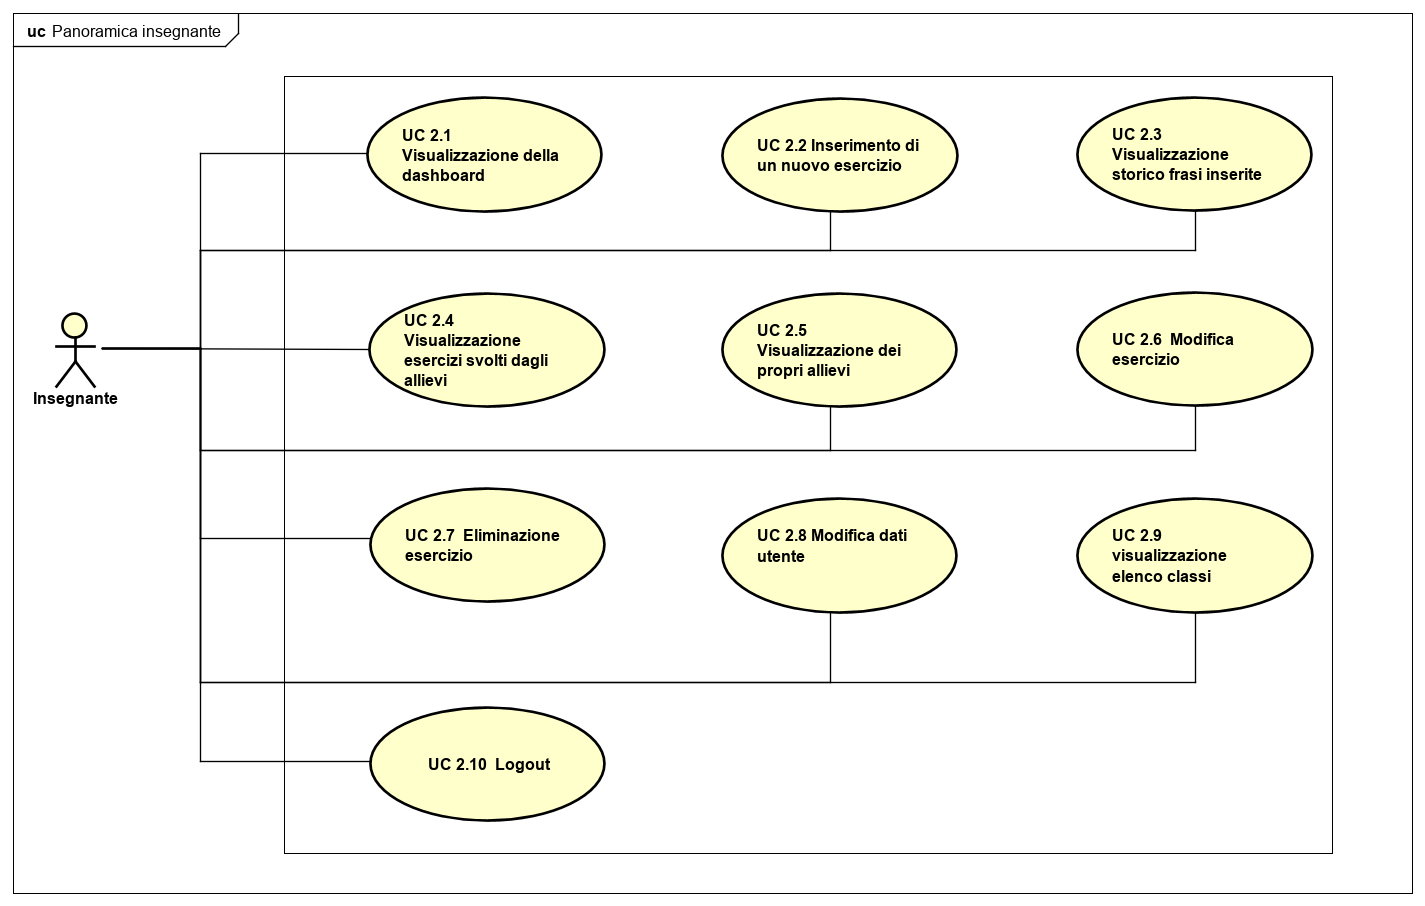
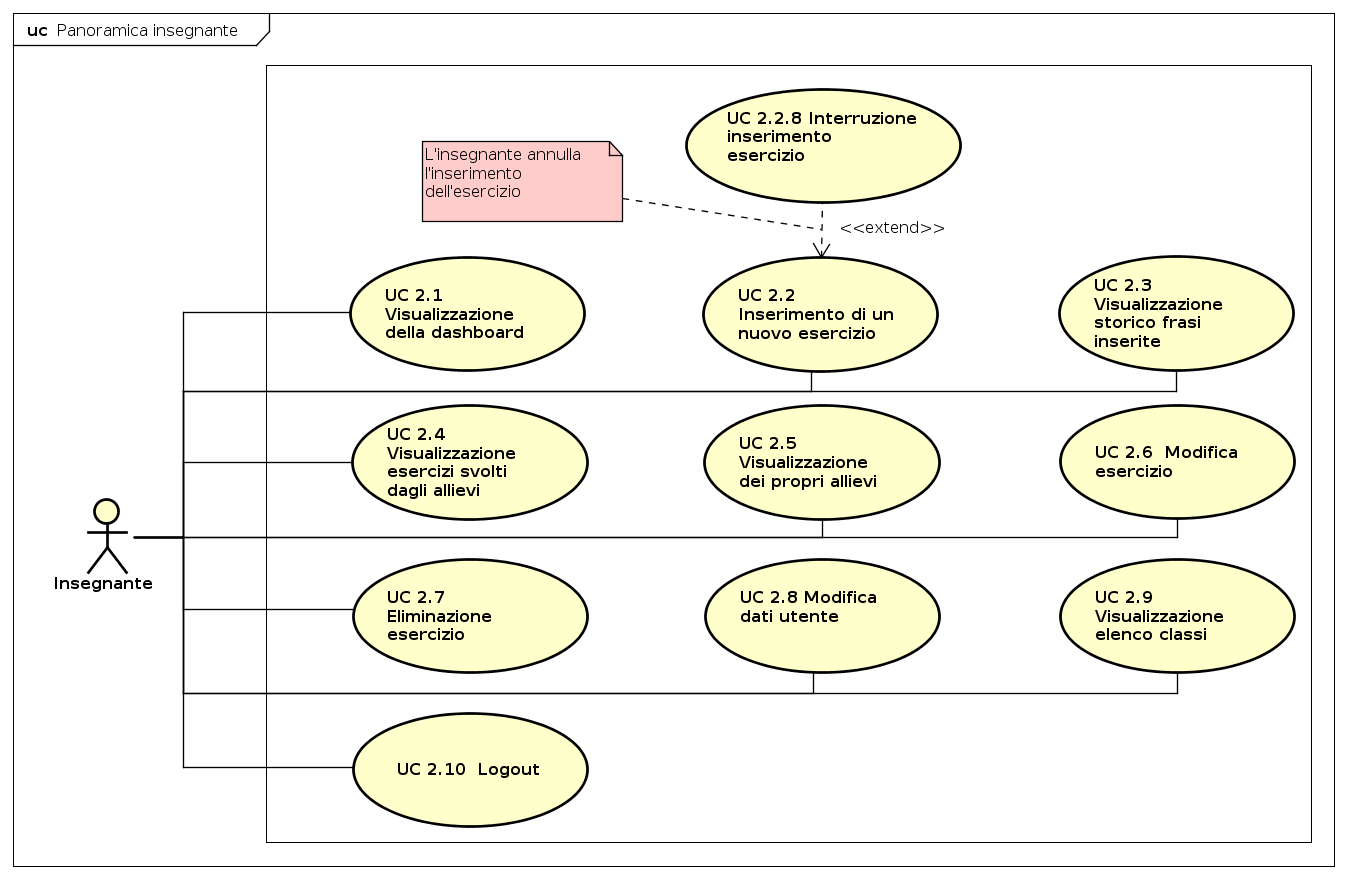
Aggiornata panoramica insegnanti

diff --git a/RQ/Analisi_dei_requisiti/sez/introduzione.tex b/RQ/Analisi_dei_requisiti/sez/introduzione.tex
@@ -5,8 +5,8 @@ Il prodotto da realizzare consta in un’applicazione web che fornisca uno strum
 le/gli insegnanti che si occuperanno della creazione degli esercizi,
 gli allievi che potranno svolgere gli esercizi e ottenere delle valutazioni e gli sviluppatori che filtreranno i dati secondo alcuni criteri, e infine li scaricheranno.\\Il prodotto si interfaccerà con un’applicazione di {PoS-tagging}\ped{G}, come {FreeLing}\ped{G}, a cui verrà delegata l’esecuzione dell’analisi grammaticale delle frasi.
 \subsection{Glossario}
-Al fine di rendere il documento il più comprensibile possibile e permetterne una rapida fruizione, viene allegato un glossario i cui termini sono contraddistinti dal pedice G. Tali termini includono abbreviazioni, acronimi, termini di natura tecnica, oppure sono fonte di ambiguità e pertanto necessitano di una definizione che renda il loro significato inequivocabile. 
-Ogni termine, solo alla prima occorrenza per documento, verrà contrassegnato con la dicitura sopra indicata e rimanderà alla medesima definizione nel glossario.
+Al fine di rendere il documento il più comprensibile possibile e permetterne una rapida fruizione, viene allegato il \G{} in cui sono presenti i termini contraddistinti dal pedice G. Tali termini includono abbreviazioni, acronimi, termini di natura tecnica, oppure sono fonte di ambiguità e pertanto necessitano di una definizione che renda il loro significato inequivocabile. 
+Ogni termine, solo alla prima occorrenza per documento, verrà contrassegnato con la dicitura sopra indicata e rimanderà alla medesima definizione nel \G{}.
 \subsection{Riferimenti}
 \subsubsection{Riferimenti normativi}
 \begin{itemize}
@@ -16,7 +16,7 @@ Ogni termine, solo alla prima occorrenza per documento, verrà contrassegnato co
 \begin{itemize}
 \item Capitolato d’appalto C2: Colletta: piattaforma raccolta dati di analisi di testo. \\ Consultabile all’indirizzo:\\
 \url{https://www.math.unipd.it/~tullio/IS-1/2018/Progetto/C2.pdf}
-\item \SdF
+\item \textit{Studio di Fattibilità v1.0.0}
 \item The Guide to the Software Engineering Body of Knowledge (SWEBOK Guide) v3 in particolare il capitolo 2 dedicato a all’analisi dei requisiti;
 \item Software Engineering (11th edition) Ian Sommerville Pearson Education Addison-Wesley, in particolare il capitolo 4, Requirements	engineering; 
 \item Dispense del corso di Ingegneria del Software - Diagrammi dei casi d’uso, come riferimento per la realizzazione dei modelli in UML:\\

diff --git a/RQ/Analisi_dei_requisiti/sez/Insegnante.tex b/RQ/Analisi_dei_requisiti/sez/Insegnante.tex
@@ -136,7 +136,7 @@
 \begin{itemize}
 	\item[•] \textbf{Attori}: Insegnante;
 	\item[•] \textbf{Descrizione}: l'insegnante interrompe l'inserimento di un esercizio;
-	\item[•] \textbf{Precondizione}: l'insegnante sta inserendo un esercizio;;
+	\item[•] \textbf{Precondizione}: l'insegnante sta inserendo un esercizio;
 	\item[•] \textbf{Postcondizione}: l'esercizio non è stato inserito;
 	\item[•] \textbf{Flusso degli eventi}: l'insegnante durante l'inserimento di un esercizio decide di annullarlo (o viene annullato), pertanto l'esercizio non viene aggiunto al sistema.
 \end{itemize}

diff --git a/RQ/Analisi_dei_requisiti/sez/RegistroModifiche.tex b/RQ/Analisi_dei_requisiti/sez/RegistroModifiche.tex
@@ -6,6 +6,11 @@
 	\begin{longtable}{ c c C{6cm} c c }
 		\rowcolor{greySWEight}
 		\textcolor{white}{\textbf{Versione}} & \textcolor{white}{\textbf{Data}} & \textcolor{white}{\textbf{Descrizione}} & \textcolor{white}{\textbf{Autore}} & \textcolor{white}{\textbf{Ruolo}}\\
+		2.1.0 &
+		2019-03-17 &
+		Sistemato §3.1.2 e aggiunto §3.1.25 &
+		Francesco Magarotto &
+		\reda{} \\ 
 		2.0.0 &
 		2019-03-07 &
 		Approvazione per il rilascio del documento &

diff --git a/RQ/Analisi_dei_requisiti/AnalisiDeiRequisiti.tex b/RQ/Analisi_dei_requisiti/AnalisiDeiRequisiti.tex
@@ -3,6 +3,7 @@
 \usepackage{../template/SWEightStyle}
 \usepackage{tabularx}
 \usepackage{ltablex}
+\usepackage{hyperref}
 \usepackage{verbatim}
 \input{comandi.tex}
 
